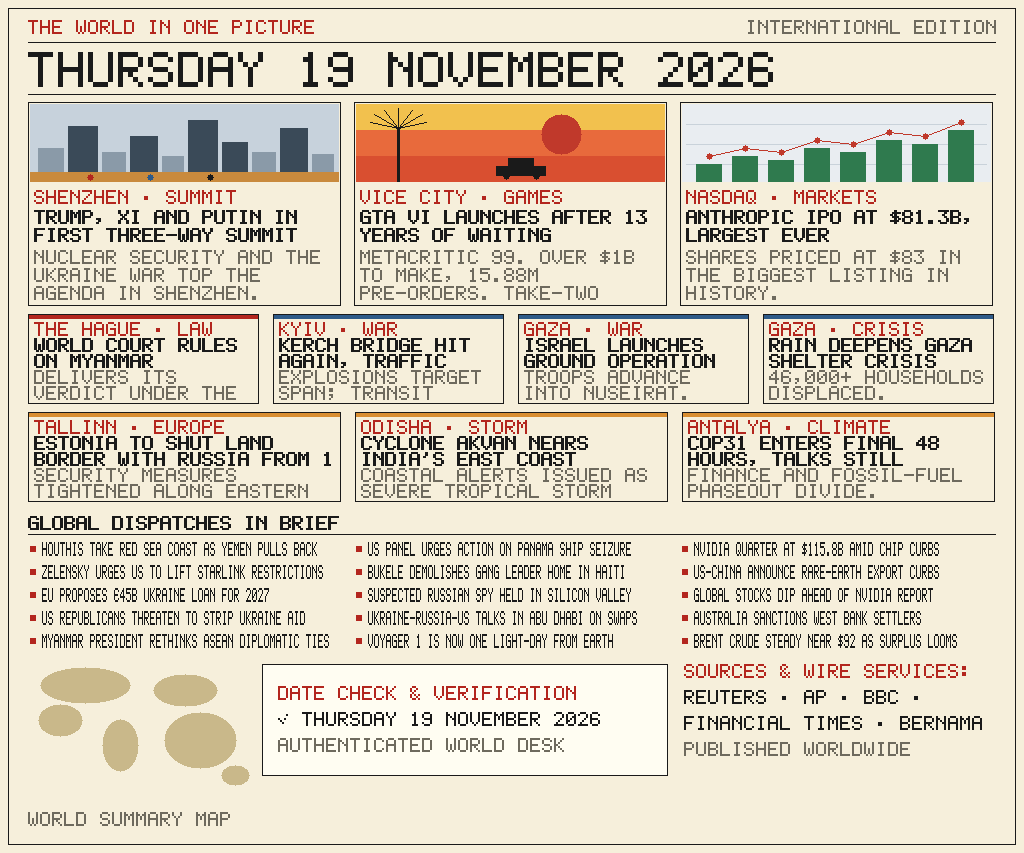
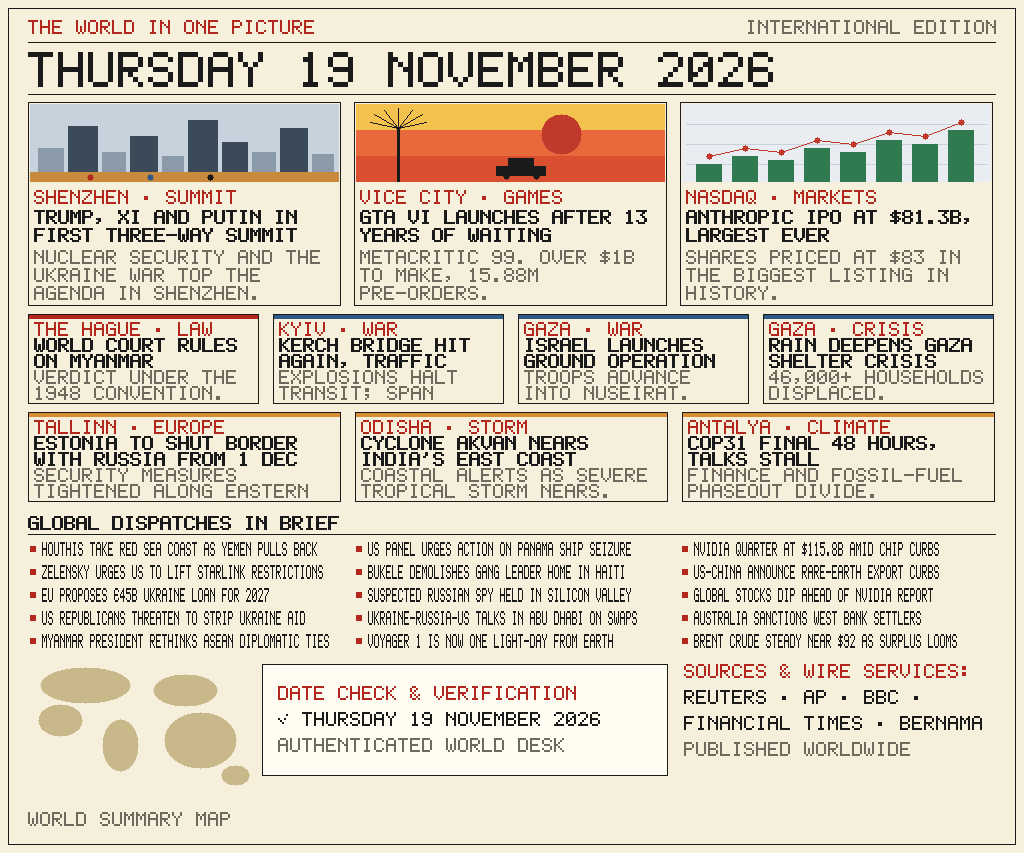
Fix headline/summary truncations (Estonia DEC, GTA VI summary)

diff --git a/main.py b/main.py
@@ -234,7 +234,7 @@ HEROES = [
      "Nuclear security and the Ukraine war top the agenda in Shenzhen."),
     ("VICE CITY · GAMES",
      "GTA VI LAUNCHES AFTER 13 YEARS OF WAITING",
-     "Metacritic 99. Over $1B to make, 15.88M pre-orders. Take-Two shares up."),
+     "Metacritic 99. Over $1B to make, 15.88M pre-orders."),
     ("NASDAQ · MARKETS",
      "ANTHROPIC IPO AT $81.3B, LARGEST EVER",
      "Shares priced at $83 in the biggest listing in history."),
@@ -242,9 +242,9 @@ HEROES = [
 
 GRID1 = [
     ("THE HAGUE · LAW", "WORLD COURT RULES ON MYANMAR",
-     "Delivers its verdict under the 1948 Genocide Convention.", RED),
+     "Verdict under the 1948 Convention.", RED),
     ("KYIV · WAR", "KERCH BRIDGE HIT AGAIN, TRAFFIC",
-     "Explosions target span; transit halted.", BLUE),
+     "Explosions halt transit; span shut.", BLUE),
     ("GAZA · WAR", "ISRAEL LAUNCHES GROUND OPERATION",
      "Troops advance into Nuseirat.", BLUE),
     ("GAZA · CRISIS", "RAIN DEEPENS GAZA SHELTER CRISIS",
@@ -253,11 +253,11 @@ GRID1 = [
 
 GRID2 = [
     ("TALLINN · EUROPE",
-     "ESTONIA TO SHUT LAND BORDER WITH RUSSIA FROM 1 DEC",
+     "ESTONIA TO SHUT BORDER WITH RUSSIA FROM 1 DEC",
      "Security measures tightened along eastern border.", ORANGE),
     ("ODISHA · STORM", "CYCLONE AKVAN NEARS INDIA'S EAST COAST",
-     "Coastal alerts issued as severe tropical storm nears.", ORANGE),
-    ("ANTALYA · CLIMATE", "COP31 ENTERS FINAL 48 HOURS, TALKS STILL",
+     "Coastal alerts as severe tropical storm nears.", ORANGE),
+    ("ANTALYA · CLIMATE", "COP31 FINAL 48 HOURS, TALKS STALL",
      "Finance and fossil-fuel phaseout divide.", ORANGE),
 ]
 
